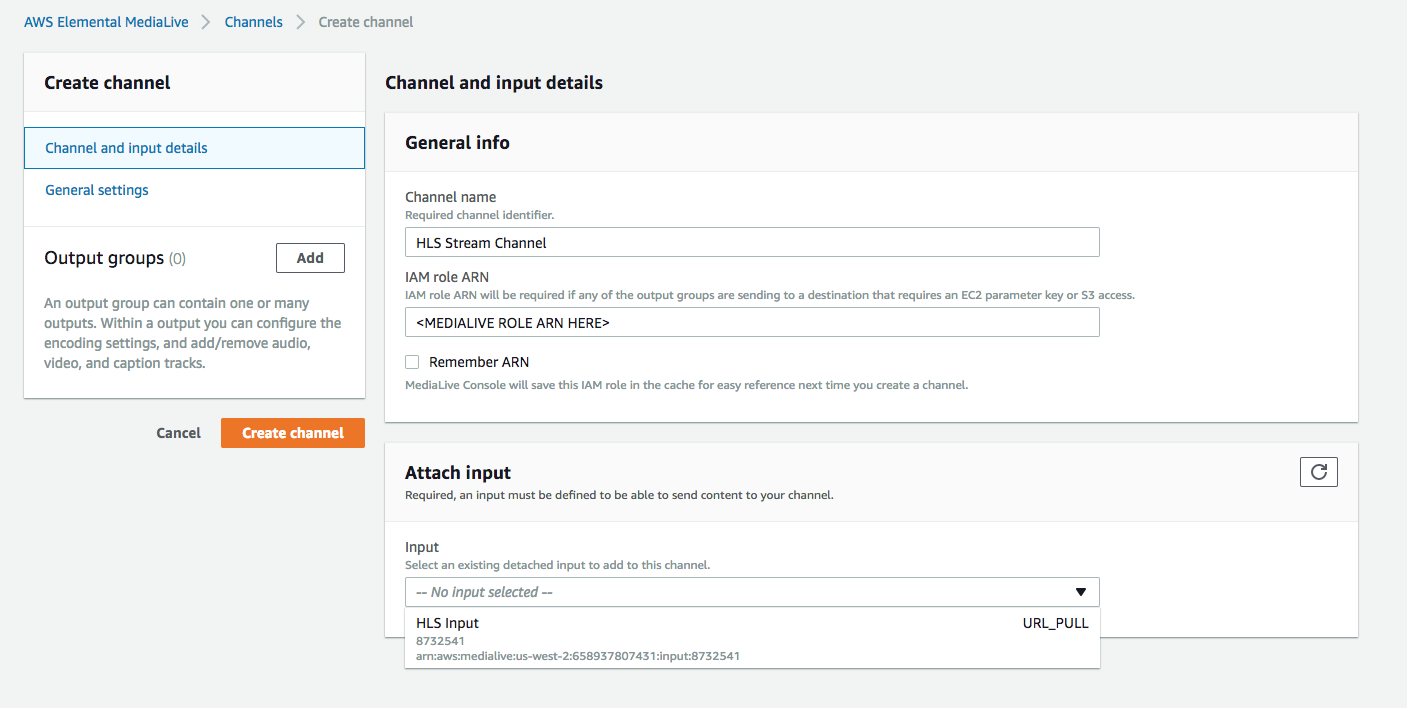
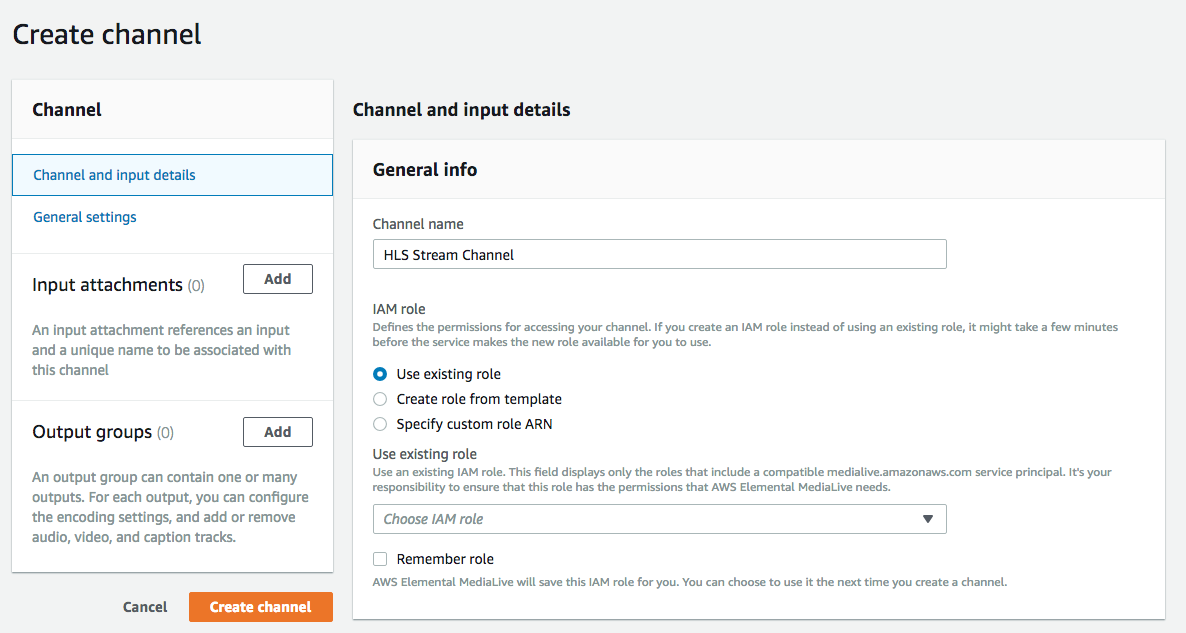
updated instructions for HLS input settings

diff --git a/3-MediaLive/README.md b/3-MediaLive/README.md
@@ -29,9 +29,9 @@ Before you can create a AWS Elemental MediaLive channel, you must first create a
 	![alt](HLSInput.png)
 
 
-1. Under Input Sources, use `http://d2qohgpffhaffh.cloudfront.net/HLS/vanlife/withad/sdr_uncage_vanlife_admarker_60sec.m3u8` for **Source A**'s Source URL of the stream.
+1. Under Input Sources, use `http://d2qohgpffhaffh.cloudfront.net/HLS/vanlife/withad/sdr_uncage_vanlife_admarker_60sec.m3u8` for **Input source A**'s Source URL of the stream.
 
-1. Enter the same URL for **Source B**.
+1. Enter the same URL for **Input source B**.
 
 1. Click **Create**.
 
@@ -50,19 +50,44 @@ You will now create an AWS Elemental MediaLive Channel that will publish to the 
 
 1. Under **General Info**, enter `HLS Stream Channel` for **Channel Name**.
 
-1. Copy and paste the Role ARN you saved off while working on the IAM module into the **IAM role ARN**. 
+1. For the **IAM Role**, use the default option **Use existing role**. In the dropdown, select the role ARN that was created while working on the IAM module. 
 
-1. Click on **Attach Input** and select the input (`HLS Input`) you created from the **Input** dropdown. 
+1. On the left navigation pane, under **Input attachments**, click on **Add**.
 
-1. Scroll down to **Input Settings**.  Set **Source End Behavior** to `Loop`.
+1. Under **Input**, choose the HLS Input you created earlier. Click on **Confirm**.
+
+1. Scroll down to **General Input Settings**.  Set **HLS Input Settings** from HLS input to **Don't include**.
+
+1. Set **Source End Behavior** to `Loop`.
+
+	![alt](InputSettings.png)
 
 1. On the left navigation pane, under **Output Groups** click on **Add**.
 
 	![alt](MediaLiveOutputGroup.png)
 
-1. Under **Add Output Group**, leave the selection to **HLS**. 
+1. Under **Add Output Group**, use the selected default option **HLS**. 
 
 1. Click on **Confirm**.
+
+1. Under **HLS group destination A**:
+	1. Enter the URL of the first MediaPackage ingest endpoint you created in the **URL** textbox.
+	1. Expand the **Credentials (optional)** settings. For **Username**, paste the username that goes with the Mediapackage endpoint you provided. 
+	1. Under **Password**, select **Create parameter**. 
+	1. For **Name**, enter `MediaPackage_HLS_Push_1`. 
+	1. For **Password**, enter the corresponding password of the username for the Mediapackage endpoint you provided.
+	1. Click on **Create Parameter**. 
+
+	![alt](HLSDestinations.png)
+
+
+1. Under **HLS group destination B**:
+	1. Enter the URL of the second MediaPackage ingest endpoint you created in the **URL** textbox.
+	1. Expand the **Credentials (optional)** settings. For **Username**, paste the username that goes with the Mediapackage endpoint you provided. 
+	1. Under **Password**, select **Create parameter**. 
+	1. For **Name**, enter `MediaPackage_HLS_Push_2`. 
+	1. For **Password**, enter the corresponding password of the username for the Mediapackage endpoint you provided.
+	1. Click on **Create Parameter**. 
 
 1. Under **HLS Settings**, enter `HLS Stream` for **Name**.
 
@@ -70,27 +95,11 @@ You will now create an AWS Elemental MediaLive Channel that will publish to the 
 
 	![alt](HLSSettings.png)
 
-
-1. Under **Destination A URL**:
-	1. Enter the URL of the first MediaPackage ingest endpoint you created.
-	1. Expand the **Credentials (optional)** settings. For **Username**, paste the username that goes with the Mediapackage endpoint you provided. 
-	1. Leave the option to **Create new parameter** selected. For **Name**, enter `MediaPackage_HLS_Push_1`. For **Password**, enter the corresponding password of the username for the Mediapackage endpoint you provided.
-	1. Click on **Create New Parameter**. 
-
-	![alt](HLSDestinations.png)
-
-
-1. Under **Destination B URL**:
-	1.  enter the URL of the second MediaPackage ingest endpoint you created.
-	1. Expand the **Credentials (optional)** settings. For **Username**, paste the username that goes with the Mediapackage endpoint you provided. 
-	1. Leave the option to **Create new parameter** selected. For **Name**, enter `MediaPackage_HLS_Push_2`. For **Password**, enter the corresponding password of the username for the Mediapackage endpoint you provided.
-	1. Click on **Create New Parameter**. 
-
 1. Scroll down and expand the **Manifest and Segments** section. Change the default **Segment Length** from `10` to `6`.
 
 1. Scroll down and expand the **Ad Markers** section. Click on **Add ad markers**. Select **ELEMENTAL_SCTE35** from the Hls Ad Markers dropdown. 
 
-1. Under the **HLS Outputs**, click on **Add Output** twice. This will add two more outputs, for a total of three. Leave the **Name Modifier** as is.
+1. Scroll back up to **HLS Outputs**, and click on **Add Output** twice. This will add two more outputs, for a total of three. Leave the **Name Modifier** as is.
 
 	![alt](HLSOutputs.png)
 
